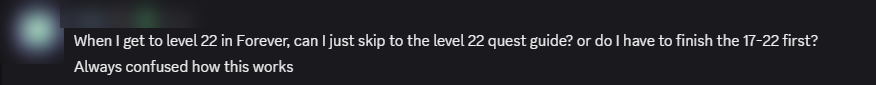
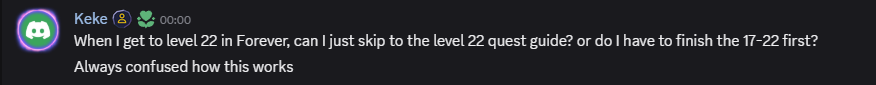
Docs: player screenshots with names, so they can be checked

Changed region(s): [[0.0, 0.0, 0.2158, 0.7294]]

diff --git a/docs/community/README.md b/docs/community/README.md
@@ -16,8 +16,7 @@ judge the idea and reimplement it your own way if you prefer.
 
 ## What players are asking
 
-These features started from questions that come up regularly in the RestedXP Discord. A few recent ones, quoted
-without names:
+These features started from questions that come up regularly in the RestedXP Discord. A few recent ones:
 
 | Player question | What helps in this branch |
 |---|---|
@@ -34,7 +33,7 @@ pixel-faithful HTML reproductions of the in-game UI; the map is the game's paint
 
 ### Quest Prerequisites
 
-> **The problem, as players put it** (RestedXP Discord, names hidden):
+> **The problem, as players put it** (RestedXP Discord):
 >
 > <img src="img/problem-cant-do-step.png" alt="Guide asks to accept a quest the player cannot take" width="520">
 >
@@ -64,7 +63,7 @@ route exists. Re-plans when you drift off and brings you back to your exact step
 
 ### Group mode and one-click layer search
 
-> **The problem, as players put it** (RestedXP Discord, names hidden):
+> **The problem, as players put it** (RestedXP Discord):
 >
 > <img src="img/problem-two-classes.png" alt="Two characters of different classes on the same guide" width="700">
 >

diff --git a/docs/community/QUEST-PREREQUISITES.md b/docs/community/QUEST-PREREQUISITES.md
@@ -10,7 +10,7 @@ Technical design notes for the RestedXP team. Describes the contributor feature 
 
 ## 1. Problem
 
-> **The problem, as players put it** (RestedXP Discord, names hidden):
+> **The problem, as players put it** (RestedXP Discord):
 >
 > <img src="img/problem-cant-do-step.png" alt="Guide asks to accept a quest the player cannot take" width="520">
 >

diff --git a/docs/community/GROUP-MODE.md b/docs/community/GROUP-MODE.md
@@ -12,7 +12,7 @@ line numbers are given for orientation.
 
 ## 1. Problem
 
-> **The problem, as players put it** (RestedXP Discord, names hidden):
+> **The problem, as players put it** (RestedXP Discord):
 >
 > <img src="img/problem-two-classes.png" alt="Two characters of different classes on the same guide" width="700">
 >
